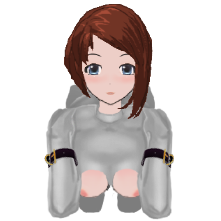
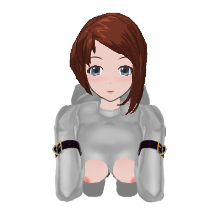
Converts Pet Suit into a modular item with new pose options

Changed region(s): [[0.19, 0.0, 0.7873, 1.0], [0.5701, 0.19, 0.5973, 0.2172], [0.3529, 0.543, 0.3801, 0.5701]]

diff --git a/BondageClub/Assets/Female3DCG/Female3DCG.js b/BondageClub/Assets/Female3DCG/Female3DCG.js
@@ -2501,22 +2501,23 @@ var AssetFemale3DCG = [
 			},
 			{ Name: "DuctTape", Fetish: ["Tape"], Value: 50, Difficulty: 5, SelfBondage: 4, Time: 20, RemoveTime: 10, BuyGroup: "DuctTape", Audio: "DuctTape", HideItem: ["ItemNipplesLactationPump"], AllowPose: ["Horse", "KneelingSpread", "Kneel"], SetPose: ["BackElbowTouch"], Effect: ["Block", "Prone"], Extended: true },
 			{
-				Name: "BitchSuit", Fetish: ["Latex", "Pet"], Value: 200, Difficulty: 15, SelfBondage: 8, Time: 40, RemoveTime: 30, Random: false, AllowLock: true, DefaultColor: "#888888", Prerequisite: ["NotSuspended", "NotHogtied", "NotMounted", "NotKneelingSpread", "NoFeetSpreader", "CanKneel"], Hide: ["Cloth", "ClothLower", "Bra", "Panties", "Shoes", "Socks", "ItemBoots", "ItemNipplesPiercings", "ItemLegs", "ItemFeet", "Corset"],
+				Name: "BitchSuit", Fetish: ["Latex", "Pet"], Value: 200, Difficulty: 15, SelfBondage: 8, Time: 40, RemoveTime: 30, Random: false, AllowLock: true, DefaultColor: ["#888888", "Default"], Top: 150,
+				Prerequisite: ["NotSuspended", "NotHogtied", "NotMounted", "NotKneelingSpread", "NoFeetSpreader", "CanKneel"],
+				Hide: ["Cloth", "ClothLower", "Bra", "Panties", "Shoes", "Socks", "ItemBoots", "ItemNipplesPiercings", "ItemLegs", "ItemFeet", "Corset"],
 				SetPose: ["BackElbowTouch", "Kneel", "LegsClosed"],
 				Effect: ["Block", "Prone", "ForceKneel"],
 				HideItem: ["ItemNipplesLactationPump"],
 				Block: ["ItemPelvis", "ItemTorso", "ItemHands"],
 				AllowActivityOn: ["ItemPelvis", "ItemTorso", "ItemBreast", "ItemHands"],
 				Extended: true,
+				AlwaysInteract: true,
+				DrawLocks: false,
+				Alpha: [{Group: ["BodyLower"], Pose: ["Kneel"], Masks: [[140, 462, 75, 238], [285, 462, 75, 238], [215 ,545, 70, 155]]}],
 				Layer: [
-					{
-						Name: "Latex", AllowTypes: [""], HasType: false,
-						Alpha: [{Group: ["BodyLower"], Masks: [[140, 462, 75, 238], [285, 462, 75, 238], [215 ,545, 70, 155]]}],
-					},
-					{
-						Name: "UnZip", CopyLayerColor: "Latex", AllowTypes: ["UnZip"], HasType: false,
-						Alpha: [{Group: ["BodyLower"], Masks: [[140, 462, 75, 238], [285, 462, 75, 238], [215 ,545, 70, 155]]}],
-					}
+					{ Name: "Latex" },
+					{ Name: "StrapsAllFours", CopyLayerColor: "Latex", ParentGroup: null, HasType: false, AllowModuleTypes: ["p1"] },
+					{ Name: "LockKneel", AllowModuleTypes: ["p0"], ParentGroup: null, HasType: false, LockLayer: true },
+					{ Name: "LockAllFours", AllowModuleTypes: ["p1"], ParentGroup: null, HasType: false, LockLayer: true, CopyLayerColor: "LockKneel" },
 				],
 				SelfUnlock: false
 			},

diff --git a/BondageClub/Assets/Female3DCG/Female3DCGExtended.js b/BondageClub/Assets/Female3DCG/Female3DCGExtended.js
@@ -604,24 +604,39 @@ var AssetFemale3DCGExtended = {
 			},
 		}, // CeilingShackles
 		BitchSuit: {
-			Archetype: ExtendedArchetype.TYPED,
+			Archetype: ExtendedArchetype.MODULAR,
 			Config: {
-				Options: [
+				Modules: [
 					{
-						Name: "Latex",
-						Property: {
-							Type: null,
-							Block: ["ItemBreast", "ItemNipples", "ItemNipplesPiercings", "ItemVulva", "ItemVulvaPiercings", "ItemButt"],
-						},
+						Name: "Zip",
+						Key: "z",
+						Options: [
+							{ // z0 - Zipped up
+								Property: { Block: ["ItemBreast", "ItemNipples", "ItemNipplesPiercings", "ItemVulva", "ItemVulvaPiercings", "ItemButt"] },
+							},
+							{ // z1 - Unzipped
+								Property: { Block: [] },
+							},
+						],
+						AllowSelfSelect: false,
 					},
 					{
-						Name: "UnZip",
-						Property: {
-							Type: "UnZip",
-							Block: [],
-						},
+						Name: "Pose",
+						Key: "p",
+						Options: [
+							{ // p0 - Kneeling
+								Property: { SetPose: ["BackElbowTouch", "Kneel", "LegsClosed"] },
+							},
+							{ // p1 - All fours
+								Property: { SetPose: ["AllFours"] },
+							},
+						],
 					},
 				],
+				ChatTags: [CommonChatTags.SOURCE_CHAR, CommonChatTags.TARGET_CHAR, CommonChatTags.DEST_CHAR],
+				Dialog: {
+					ChatPrefix: ({ C }) => `ItemArmsBitchSuit${C.ID === 0 ? "Self" : ""}Set`,
+				},
 			},
 		}, // BitchSuit
 		BitchSuitExposed: {
